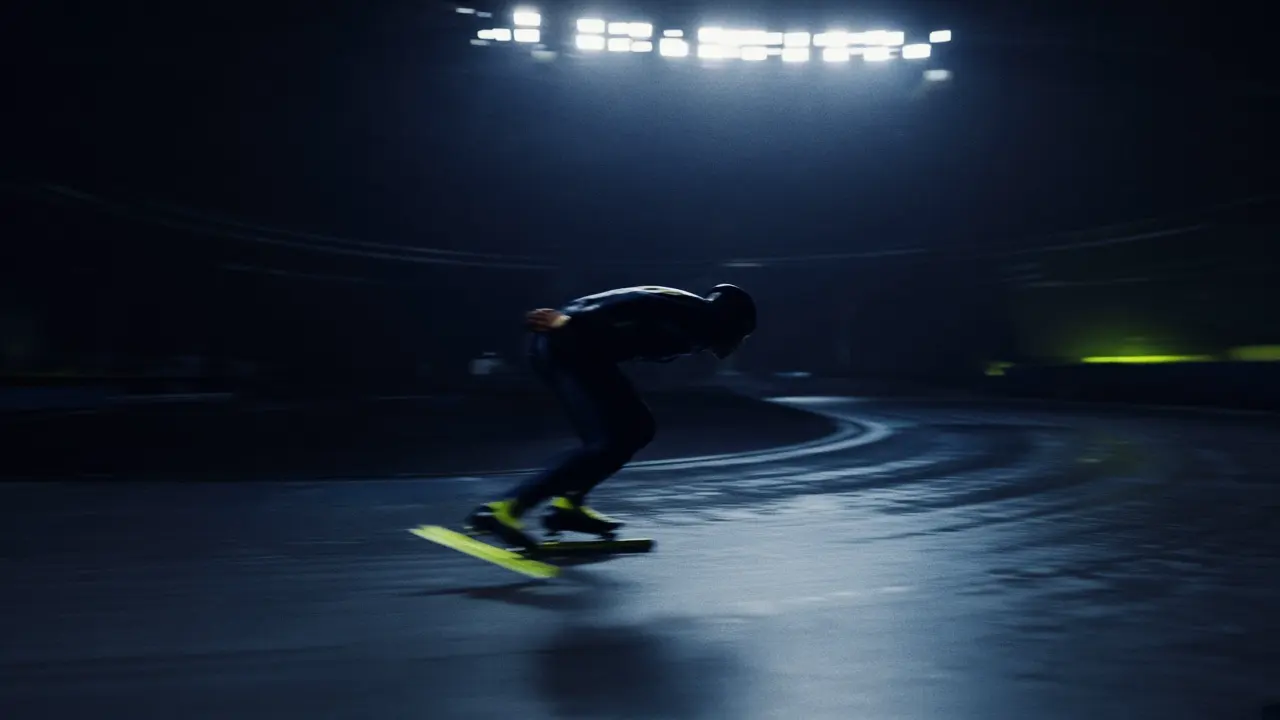
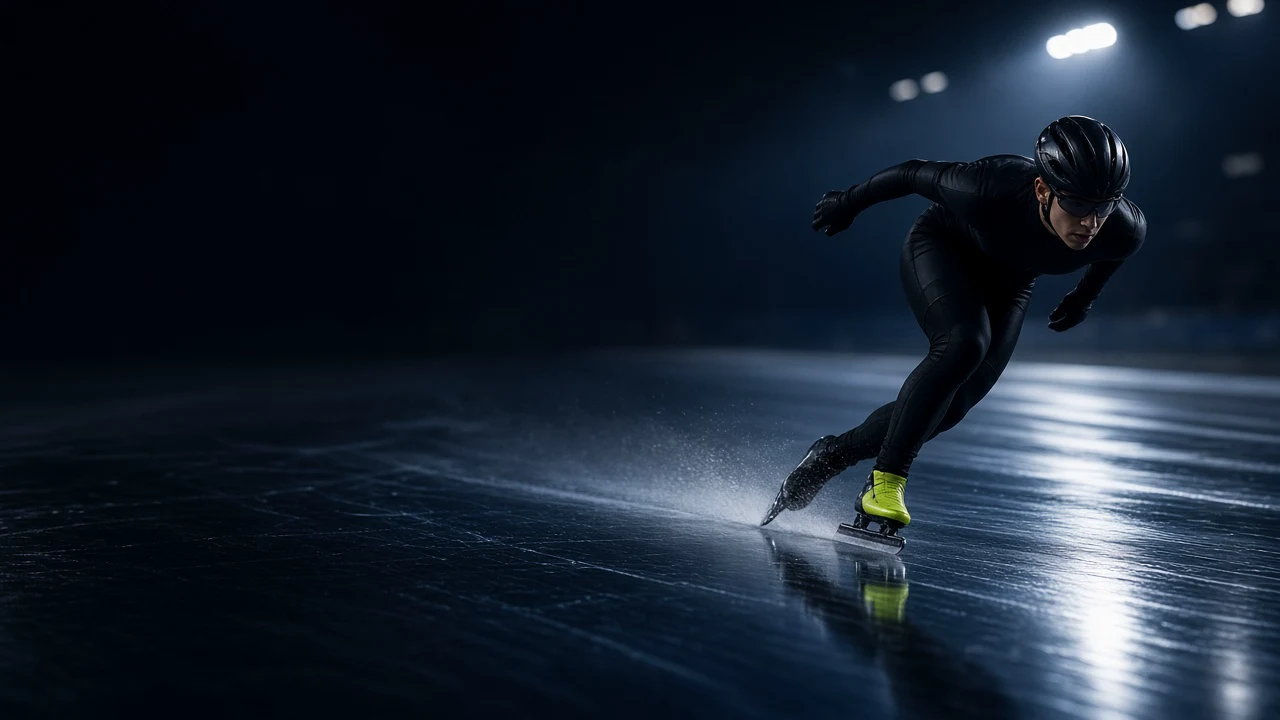
Polish portraits and the sports hero still.
Replace the circular Anitha crop with a rectangular painted portrait and
swap the near-black rink for a readable night-track still. Lighten the
sports overlay so type and athlete stay visible.

diff --git a/src/components/ui/hero-extra.tsx b/src/components/ui/hero-extra.tsx
@@ -123,7 +123,7 @@ export function ExtraHero({
     return (
       <section data-nexara="hero" data-variant="sports" className={cn('relative min-h-[30rem] overflow-hidden bg-[#111113] text-white', className)}>
         <MediaFrame src={image ?? media.sports} video={video} poster={poster} alt="Night track" className="absolute inset-0" />
-        <div className="absolute inset-0 bg-gradient-to-t from-black via-black/35 to-black/10" />
+        <div className="absolute inset-0 bg-gradient-to-t from-black/70 via-black/20 to-transparent" />
         <div className="relative z-10 mx-auto flex min-h-[30rem] max-w-6xl flex-col justify-end px-6 py-12">
           <p className={cn('text-[11px] tracking-[0.2em] text-[#c8ff4d] uppercase', eyebrowClassName)}>{eyebrow ?? 'Season desk'}</p>
           <Title className={cn(titleClass, 'mt-3 max-w-3xl text-5xl text-white md:text-7xl')}>{title}</Title>
